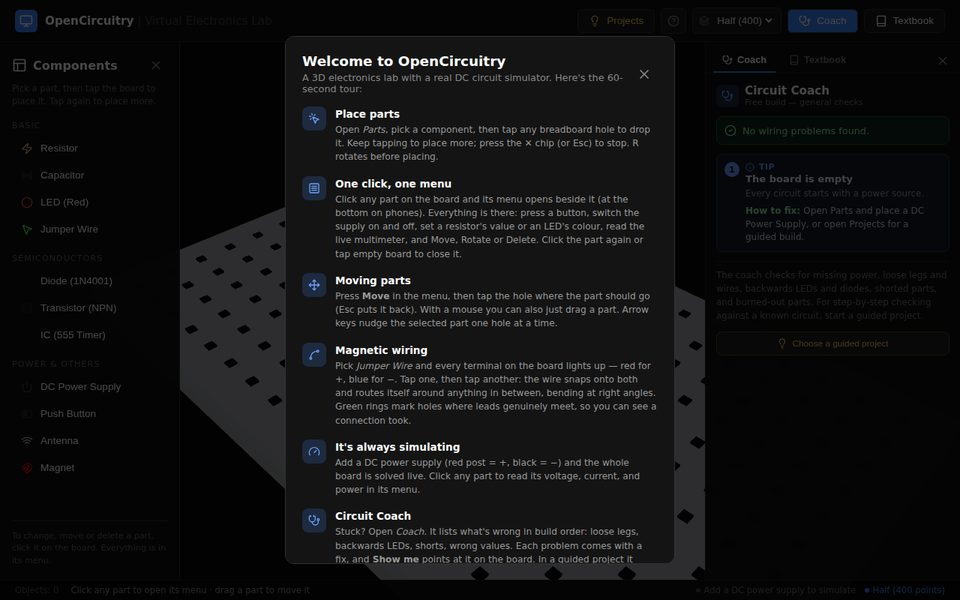
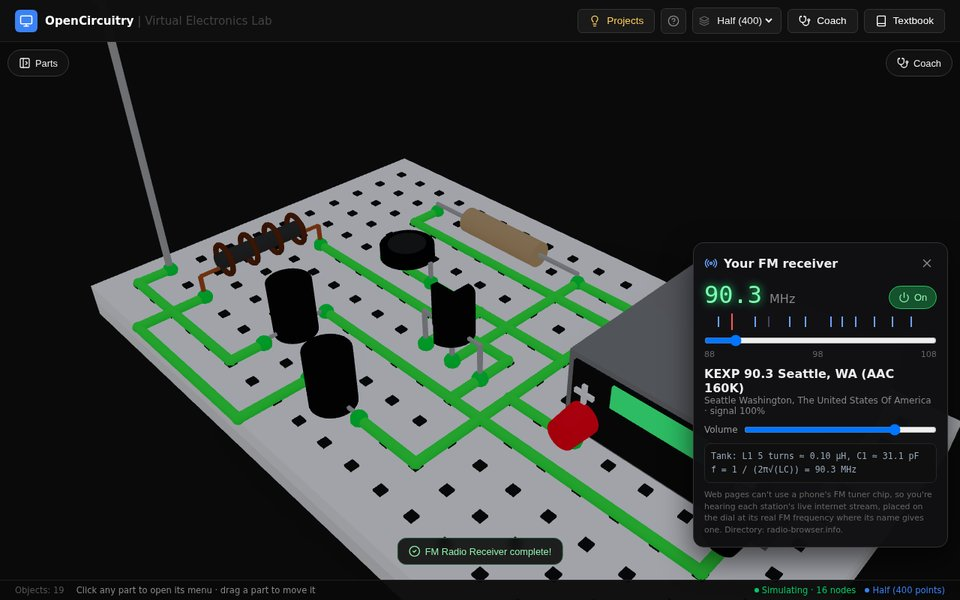
Show the lab's FM radio build on the OpenCircuitry card
Claude-Session: https://claude.ai/code/session_01V6aJaMgLbJqaWTVMEiZYNH

diff --git a/index.html b/index.html
@@ -620,7 +620,7 @@
           <img src="previews/opencircuitry.jpg" alt="OpenCircuitry" loading="lazy">
           <span class="expand-hint">click to expand</span>
         </div>
-        <p class="card-desc">A virtual electronics lab for building and simulating circuits in the browser — no breadboard required.</p>
+        <p class="card-desc">A 3D electronics lab in the browser: wire real circuits on a breadboard, then tune a working FM radio, talk over a walkie-talkie, spin a generator or light an LED with lemons.</p>
         <div class="card-footer">
           <span class="badge live">Live</span>
           <a href="https://virtual-electronics-lab.pages.dev" target="_blank" class="card-link">visit</a>
